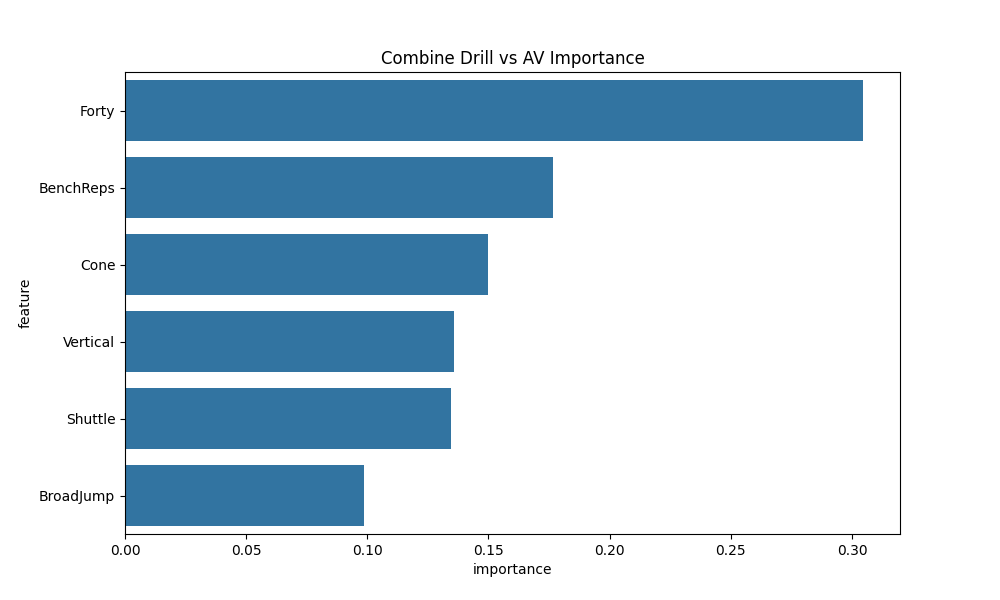
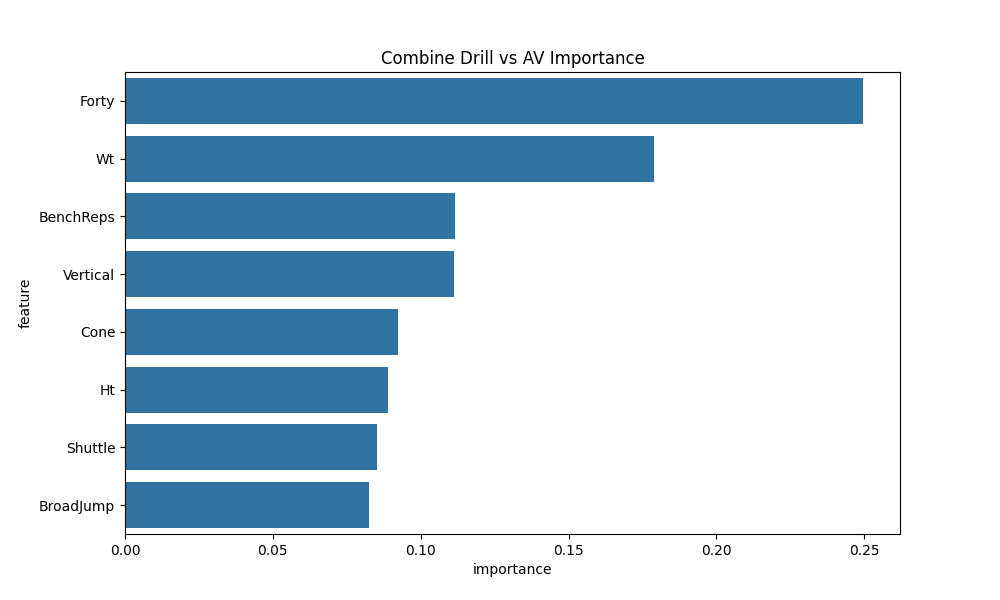
added statistical model, comments, and seperate python module for the rubric requirements

diff --git a/analysis.py b/analysis.py
@@ -1,62 +1,22 @@
 """
-
+Ian Kraemer and William Dinh
+CSE 163 Final Project
 """
 
 # import statements
 import pandas as pd
 import seaborn as sns
 import matplotlib.pyplot as plt
+import numpy as np
+
+from data_loader import load_data
+
 
 # machine learning and model accuracy testing
-from sklearn.tree import DecisionTreeRegressor
+from sklearn.ensemble import RandomForestRegressor
 from sklearn.metrics import mean_squared_error
 from sklearn.model_selection import train_test_split
-
-
-def load_data(combine_data, player_stats):
-    """Load and merge NFL datasets.
-
-    Args:
-        combine_data (str): Path to the combine data CSV file.
-        player_stats (str): Path to the player stats CSV file.
-
-    Returns:
-        pd.DataFrame: Merged DataFrame of all datasets
-
-    Note: Games_y is total games played, Games_x is games per season 
-    """
-    combine_stats = pd.read_csv(combine_data)
-    player_data = pd.read_csv(player_stats)
-
-    # use inner merge so same values across all 3 datasets are consistent.
-    final_combined_data = pd.merge(combine_stats,
-                                   player_data,
-                                   left_on='Player',
-                                   right_on='Player',
-                                   how='inner')
-
-    # remove qbs since we're not going to be looking at passing metrics
-    mask = (final_combined_data['Pos_x'] != 'QB') & (final_combined_data['Pos_y'] != 'QB')
-    final_combined_data = final_combined_data.loc[mask]
-
-    # remove rows with NaN values
-    final_combined_data.dropna()
-
-    # group by player name and sum up the total games and touchdowns
-    total_stats_by_player = final_combined_data.groupby('Player').agg({
-        'Games': 'sum',
-        'RecTD': 'sum',
-        'RshTD': 'sum'
-    }).reset_index()
-
-    # calculate total touchdowns
-    total_stats_by_player['TotalTouchdowns'] = total_stats_by_player['RecTD'] + total_stats_by_player['RshTD']
-
-    # merge total games and total touchdowns back into final_combined_data
-    final_combined_data = pd.merge(final_combined_data, total_stats_by_player[['Player', 'Games', 'TotalTouchdowns']],
-                                   on='Player', how='left')
-
-    return final_combined_data
+from sklearn.metrics import r2_score
 
 
 def scatter_plot(data):
@@ -65,14 +25,16 @@ def scatter_plot(data):
     Args:
         data (pd.DataFrame): Merged DataFrame of NFL datasets.
     """
-    correlation_draft_career = data['Pick'].corr(data['Games_y'])
-    print(f'Correlation between draft position and career length: {correlation_draft_career:.2f}')
+    draft_car = data['Pick'].corr(data['Games_y'])
+    print(
+        f'Correlation between draft position & career length: {draft_car:.2f}')
     plt.figure(figsize=(10, 6))
     plt.scatter(data['Pick'], data['Games_y'], alpha=0.5)
     plt.title('Draft Position vs. Career Length')
     plt.xlabel('Draft Position')
     plt.ylabel('Career Length (Games) Played')
-    plt.savefig("pngs//Draft Position vs. Career Longevity and Performance.png")
+    plt.savefig(
+        "pngs//Draft Position vs. Career Longevity and Performance.png")
     # plt.show()
 
 
@@ -85,8 +47,9 @@ def scatter_plot_av(data):
     Args:
         data (pd.DataFrame): Merged DataFrame of NFL datasets.
     """
-    correlation_draft_career = data['Pick'].corr(data['AV'])
-    print(f'Correlation between draft position and AV: {correlation_draft_career:.2f}')
+    draft_av = data['Pick'].corr(data['AV'])
+    print(
+        f'Correlation between draft position and AV: {draft_av:.2f}')
     plt.figure(figsize=(10, 6))
     plt.scatter(data['Pick'], data['AV'], alpha=0.5)
     plt.title('Draft Position vs. AV')
@@ -122,66 +85,63 @@ def analyze_combine_stats(data):
     Args:
         data (pd.DataFrame): Merged DataFrame of NFL datasets.
     """
-    combine_columns = ['Forty', 'Vertical', 'BenchReps',
+    combine_columns = ['Forty', 'Vertical', 'Ht', 'Wt',
                        'BroadJump', 'Cone', 'Shuttle']
-    performance_columns = ['Games_y', 'RshTD', 'RecTD', 'TotalTouchdowns']
+    performance_columns = ['Games_y', 'RshTD', 'RecTD',
+                           'TotalTouchdowns', 'AV']
 
     correlations = data[combine_columns + performance_columns].corr()
 
     plt.figure(figsize=(16, 12))
     sns.heatmap(correlations, annot=True, cmap='coolwarm', fmt='.2f')
     plt.title('Combine Stats and Career Performance Correlation Matrix')
-    plt.savefig("pngs//Combine Stats and Career Performance Correlation Matrix.png")
-    # plt.show()
-
-
-def analyze_combine_stats_av(data):
-    """_summary_
-
-    Args:
-        data (_type_): _description_
-    """
-    combine_columns = ['Forty', 'Vertical', 'BenchReps',
-                       'BroadJump', 'Cone', 'Shuttle']
-    performance_columns = ['AV']
-
-    correlations = data[combine_columns + performance_columns].corr()
-
-    plt.figure(figsize=(16, 12))
-    sns.heatmap(correlations, annot=True, cmap='coolwarm', fmt='.2f')
-    plt.title('Combine Stats and AV Correlation Matrix')
-    plt.savefig("pngs//Combine Stats and AV Correlation Matrix.png")
+    plt.savefig(
+        "pngs//Combine Stats and Career Performance Correlation Matrix.png")
     # plt.show()
 
 
 def machine_learning_model_career_success_total_games(data):
     """Build a predictive model to predict career success based
-    on combine stats and draft position.
+    on combine stats and draft position using Random Forest Regressor.
 
     Args:
         data (pd.DataFrame): Merged DataFrame of NFL datasets.
     """
-    features = ['Forty', 'Vertical', 'BenchReps',
+    features = ['Forty', 'Vertical', 'BenchReps', 'Ht', 'Wt',
                 'BroadJump', 'Cone', 'Shuttle']
-    target = 'Pick'
+    target = 'Games_y'
 
-    # Drop rows with NaN values in the target variable since it was getting
-    # angry bc not all of the data is actually present
+    # drop rows with NaN values in the target variable
     data = data.dropna(subset=[target])
 
     X_train, X_test, y_train, y_test = train_test_split(data[features],
                                                         data[target],
-                                                        test_size=0.2)
+                                                        test_size=0.2
+                                                        )
 
-    model = DecisionTreeRegressor()
+    model = RandomForestRegressor(n_estimators=200)
+
+    # train the model + predict
     model.fit(X_train, y_train)
-
     y_pred = model.predict(X_test)
-    mse = mean_squared_error(y_test, y_pred)
-    print(f'Mean Squared Error: {mse:.2f}')
 
-    feature_importance = pd.DataFrame({'feature': features,
-                                       'importance': model.feature_importances_})
+    # calculate Mean Squared Error
+    mse = mean_squared_error(y_test, y_pred)
+    print(
+        f'Mean Squared Error of target, Total Games Played: {mse:.2f}')
+
+    # calculate variance of the target variable 'total games played'
+    variance = np.var(data[target])
+    print(
+        f'Variance of target, Total Games Played: {variance:.2f}')
+
+    # calculate r squared value
+    r2 = r2_score(y_test, y_pred)
+    print(f'R^2 Score: {r2:.2f}')
+
+    feature_importance = pd.DataFrame(
+        {'feature': features,
+         'importance': model.feature_importances_})
 
     feature_importance = feature_importance.sort_values(by='importance',
                                                         ascending=False)
@@ -200,28 +160,40 @@ def machine_learning_model_career_success_AV(data):
 
     Args:
         data (pd.DataFrame): Merged DataFrame of NFL datasets.
+
+    Returns:
+        mse (float): Mean squared error of the model predictions.
+        variance_AV (float): Variance of the target variable 'AV'.
     """
-    features = ['Forty', 'Vertical', 'BenchReps',
+    features = ['Forty', 'Vertical', 'BenchReps', 'Ht', 'Wt',
                 'BroadJump', 'Cone', 'Shuttle']
     target = 'AV'
 
-    # Drop rows with NaN values in the target variable since it was getting
-    # angry bc not all of the data is actually present
+    # drop rows with NaN values in the target variable
     data = data.dropna(subset=[target])
 
     X_train, X_test, y_train, y_test = train_test_split(data[features],
                                                         data[target],
                                                         test_size=0.2)
 
-    model = DecisionTreeRegressor()
+    model = RandomForestRegressor(n_estimators=200)
     model.fit(X_train, y_train)
 
     y_pred = model.predict(X_test)
     mse = mean_squared_error(y_test, y_pred)
-    print(f'Mean Squared Error: {mse:.2f}')
+    print(f'Mean Squared Error of target, AV: {mse:.2f}')
 
-    feature_importance = pd.DataFrame({'feature': features,
-                                       'importance': model.feature_importances_})
+    # calculate variance of the target variable 'AV'
+    variance_AV = np.var(data[target])
+    print(f'Variance of Target AV: {variance_AV:.2f}')
+
+    # calculate r squared value
+    r2 = r2_score(y_test, y_pred)
+    print(f'R^2 Score: {r2:.2f}')
+
+    feature_importance = pd.DataFrame(
+        {'feature': features,
+         'importance': model.feature_importances_})
 
     feature_importance = feature_importance.sort_values(by='importance',
                                                         ascending=False)
@@ -231,7 +203,6 @@ def machine_learning_model_career_success_AV(data):
                 data=feature_importance)
     plt.title('Combine Drill vs AV Importance')
     plt.savefig("pngs//AVPickImportance.png")
-    # plt.show()
 
 
 def main():
@@ -251,7 +222,6 @@ def main():
     scatter_plot_av(nfl_data)
     draft_performance_by_team_av(nfl_data)
     analyze_combine_stats(nfl_data)
-    analyze_combine_stats_av(nfl_data)
     machine_learning_model_career_success_total_games(nfl_data)
     machine_learning_model_career_success_AV(nfl_data)
 

diff --git a/data_loader.py b/data_loader.py
@@ -1,0 +1,54 @@
+"""
+William Dinh and Ian Kraemer
+Loading Data module for final project
+"""
+import pandas as pd
+
+
+def load_data(combine_data, player_stats):
+    """Load and merge NFL datasets.
+
+    Args:
+        combine_data (str): Path to the combine data CSV file.
+        player_stats (str): Path to the player stats CSV file.
+
+    Returns:
+        pd.DataFrame: Merged DataFrame of all datasets
+
+    Note: Games_y is total games played, Games_x is games per season
+    """
+    combine_stats = pd.read_csv(combine_data)
+    player_data = pd.read_csv(player_stats)
+
+    # use inner merge so same values across all 3 datasets are consistent.
+    final_combined_data = pd.merge(combine_stats,
+                                   player_data,
+                                   left_on='Player',
+                                   right_on='Player',
+                                   how='inner')
+
+    # remove qbs since we're not going to be looking at passing metrics
+    mask = (final_combined_data['Pos_x'] != 'QB') & (
+        final_combined_data['Pos_y'] != 'QB')
+    final_combined_data = final_combined_data.loc[mask]
+
+    # group by player name and sum up the total games and touchdowns
+    total_stats_by_player = final_combined_data.groupby('Player').agg({
+        'Games': 'sum',
+        'RecTD': 'sum',
+        'RshTD': 'sum'
+    }).reset_index()
+
+    # calculate total touchdowns
+    total_stats_by_player[
+        'TotalTouchdowns'] = total_stats_by_player[
+            'RecTD'] + total_stats_by_player['RshTD']
+
+    # merge total games and total touchdowns back into final_combined_data
+    final_combined_data = pd.merge(
+        final_combined_data,
+        total_stats_by_player[['Player', 'Games', 'TotalTouchdowns']],
+        on='Player',
+        how='left')
+
+    return final_combined_data
